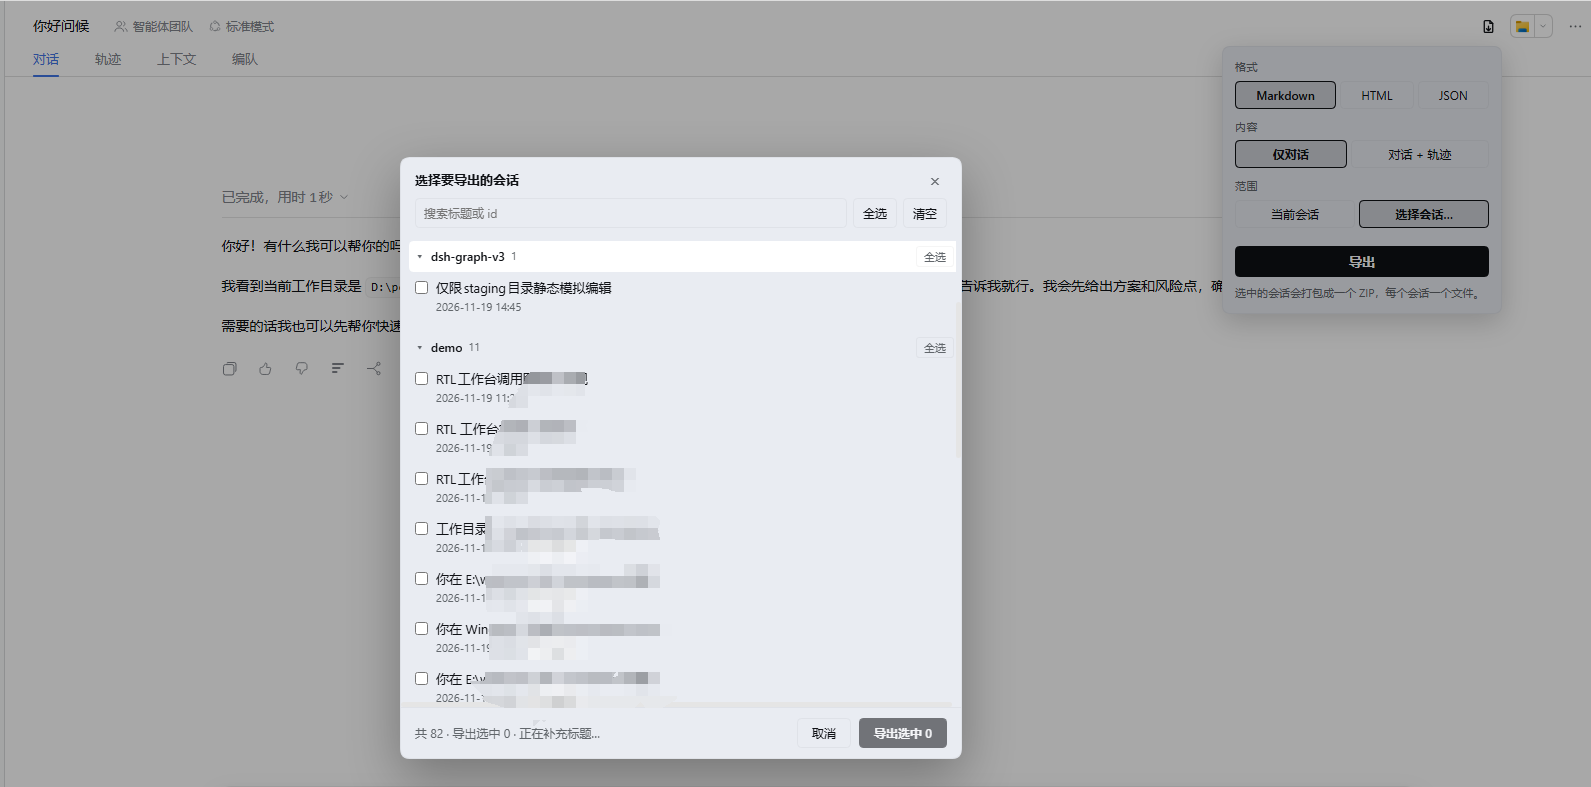
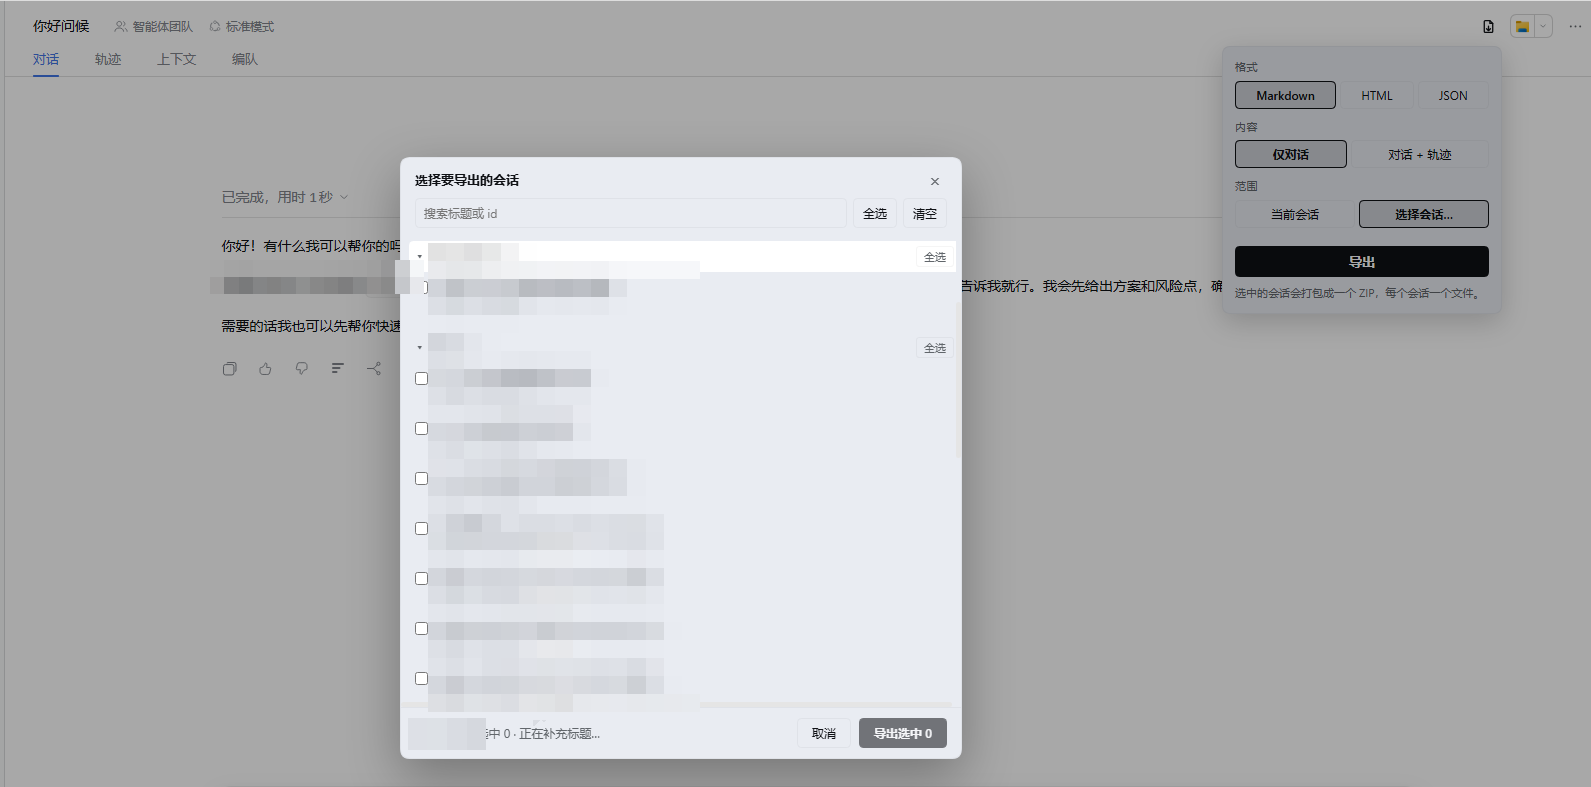
docs: README 去除 docs/screenshot.png 引用；会话面板截图脱敏
- 列表标题区、底部计数、正文工作目录行统一马赛克
- 保留左侧箭头/复选框与右侧「全选」，仍能看清浮层布局

diff --git a/README.md b/README.md
@@ -2,7 +2,7 @@
 
 把 DSH 会话导出成**人可读**的文档（Markdown / HTML / JSON），可选附带工具轨迹；支持逐条勾选多个会话，打包成 ZIP。
 
-## 环境
+## 项目环境
 
 实测可用的组合：
 
@@ -88,8 +88,7 @@ test/render-check.mjs 离线渲染自检（六种产物 + 断言）
 test/host-check.mjs   mock 上下文跑 apply，验证路由/命令/文件名/批量 ZIP/选择器
 test/client-check.mjs 模拟模块加载器，验证 client 注册行为与浮层结构
 test/zip-check.mjs    打包 → 交给 Expand-Archive 验证
-test/style-probe.mjs  造一页样例给截图核对排版
-docs/screenshot.png   排版截图（由 style-probe 产出）
+test/style-probe.mjs  渲染一页排版样例 HTML，供人眼核对
 ```
 
 ## 使用说明
